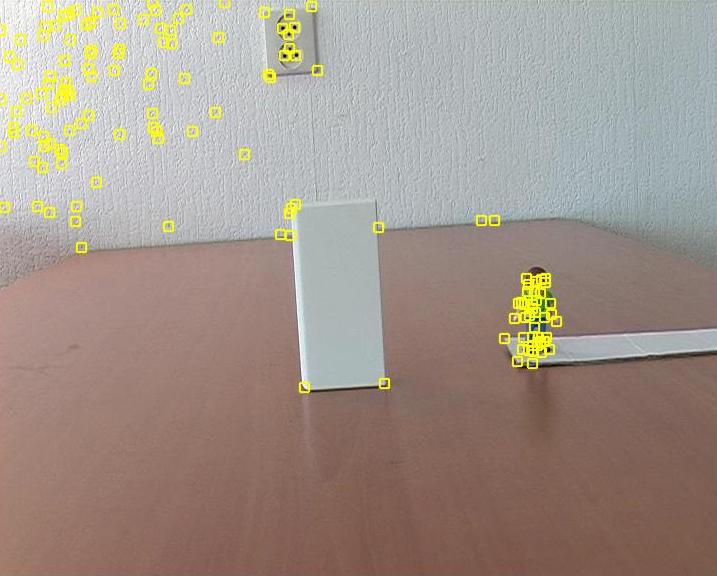
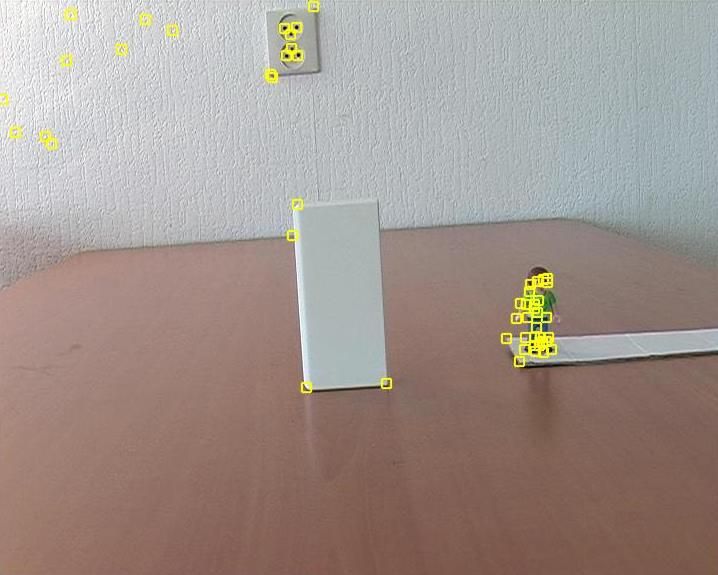
Harris corner detect. is done

diff --git a/assignments/3/harris_corner_detector.m b/assignments/3/harris_corner_detector.m
@@ -7,7 +7,7 @@ function [H, r, c] = harris_corner_detector(I)
 % Parameters
 radius = 2;
 sigma = 1; 
-threshold = 330000000 ; % 50100000 for I; 330000000 for J
+threshold = 100000000 ; % 50100000 for I; 330000000 for J % 200000000
 n = 2*radius + 1;
 
 % Make I grayscale if it is now already
@@ -65,9 +65,10 @@ end
 
 % Plot images
 figure;
-subplot(1, 3, 1), imshow(J), hold on, plot(c, r, 'ys');
-subplot(1, 3, 2), imshow(Ix), xlabel('I_x');
-subplot(1, 3, 3), imshow(Iy), xlabel('I_y');
+imshow(J), hold on, plot(c, r, 'ys');
+% subplot(1, 3, 1), imshow(J), hold on, plot(c, r, 'ys');
+% subplot(1, 3, 2), imshow(Ix), xlabel('I_x');
+% subplot(1, 3, 3), imshow(Iy), xlabel('I_y');
 
 end
 

diff --git a/assignments/3/main.m b/assignments/3/main.m
@@ -7,4 +7,3 @@ I_45 = imrotate(I, 45);
 I_90 = imrotate(I, 90);
 
 [H, r, c]= harris_corner_detector(J);
-% [H, r, c]= harris_corner_detector(I_90);
